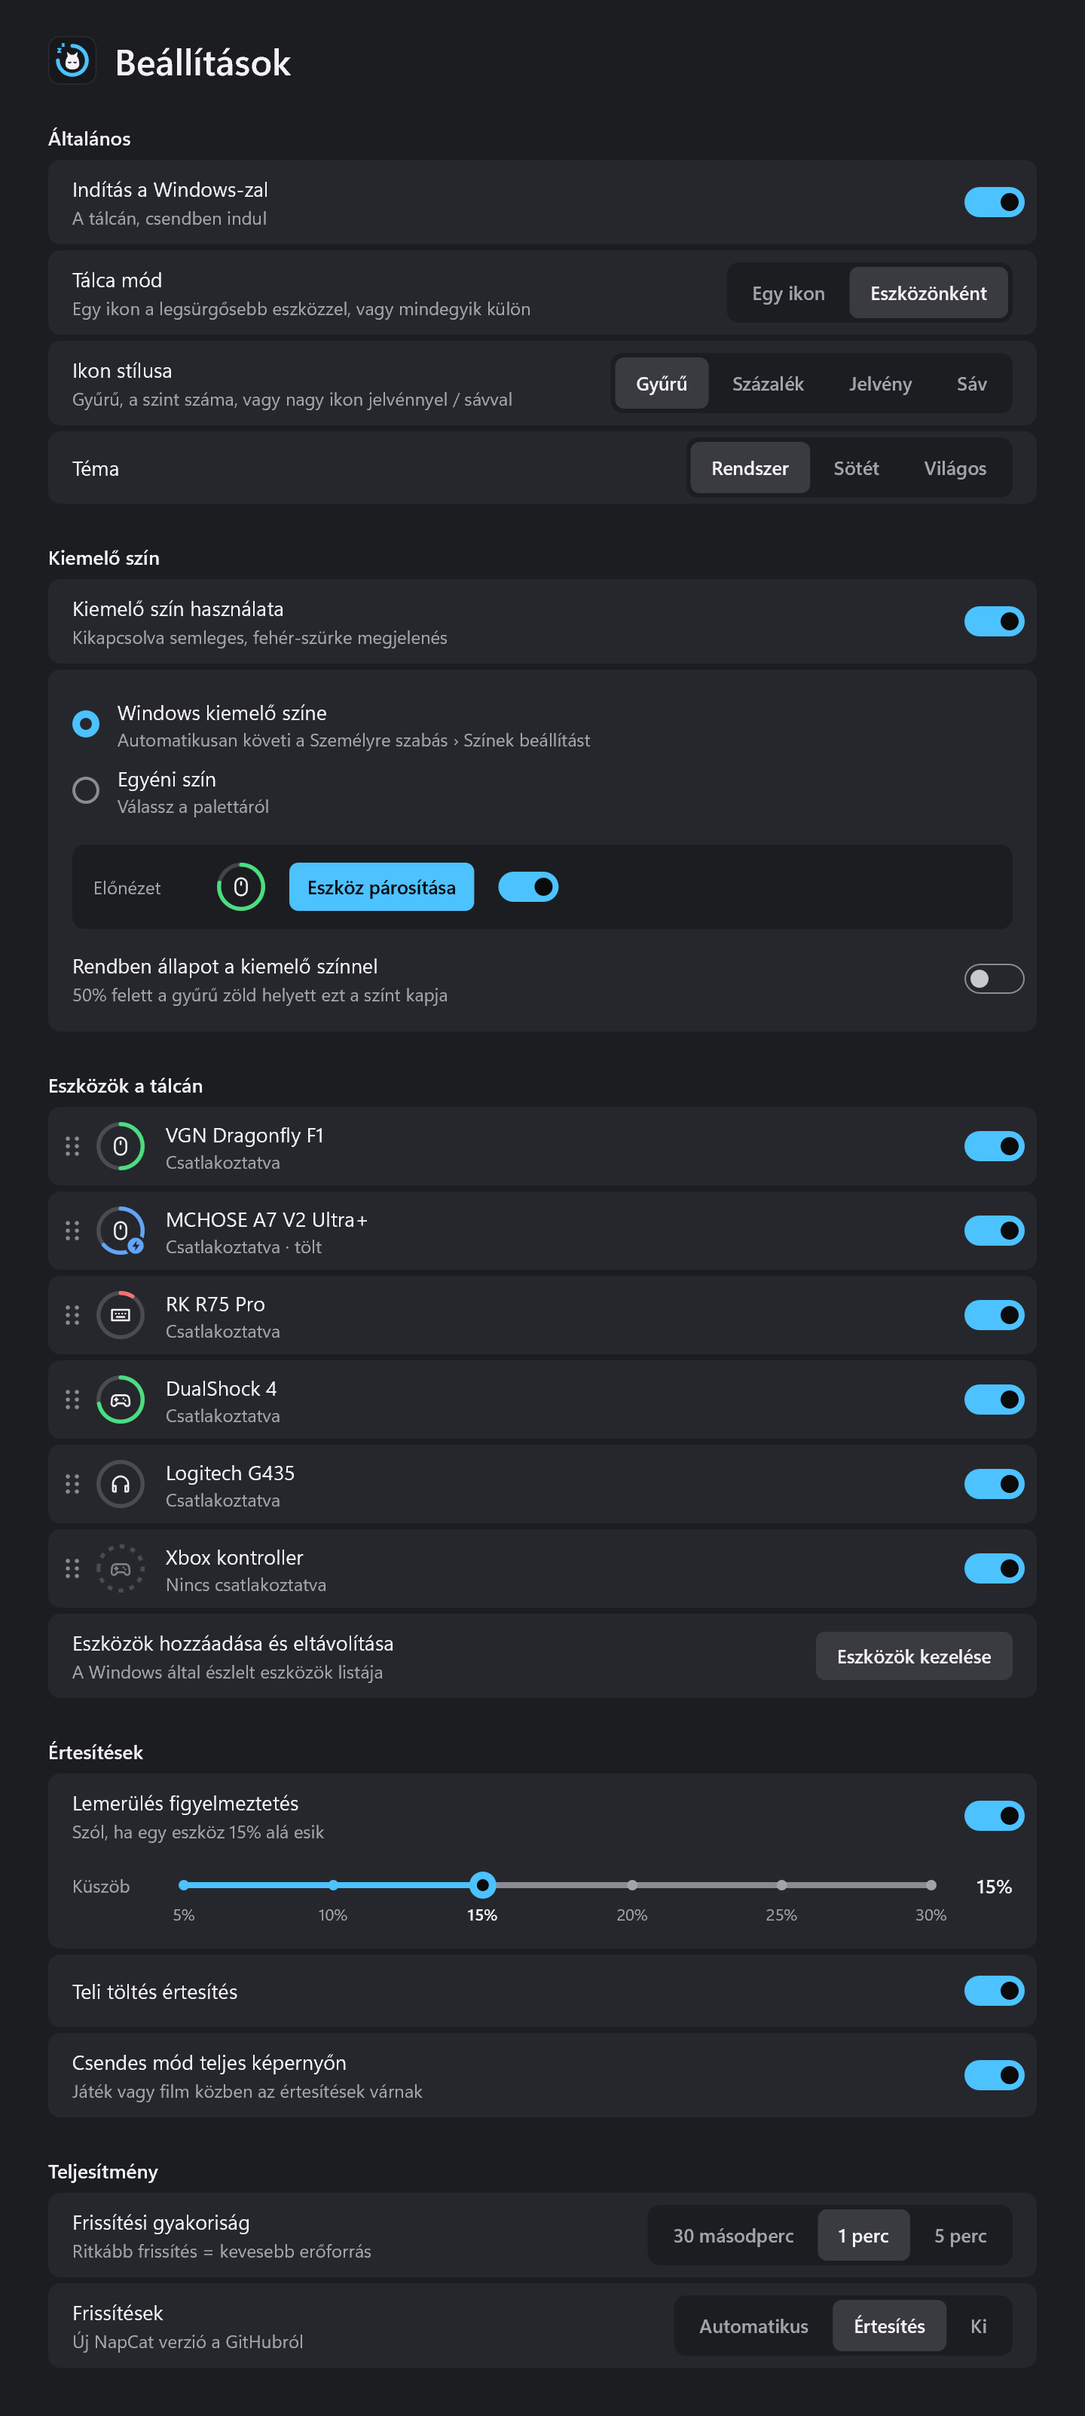
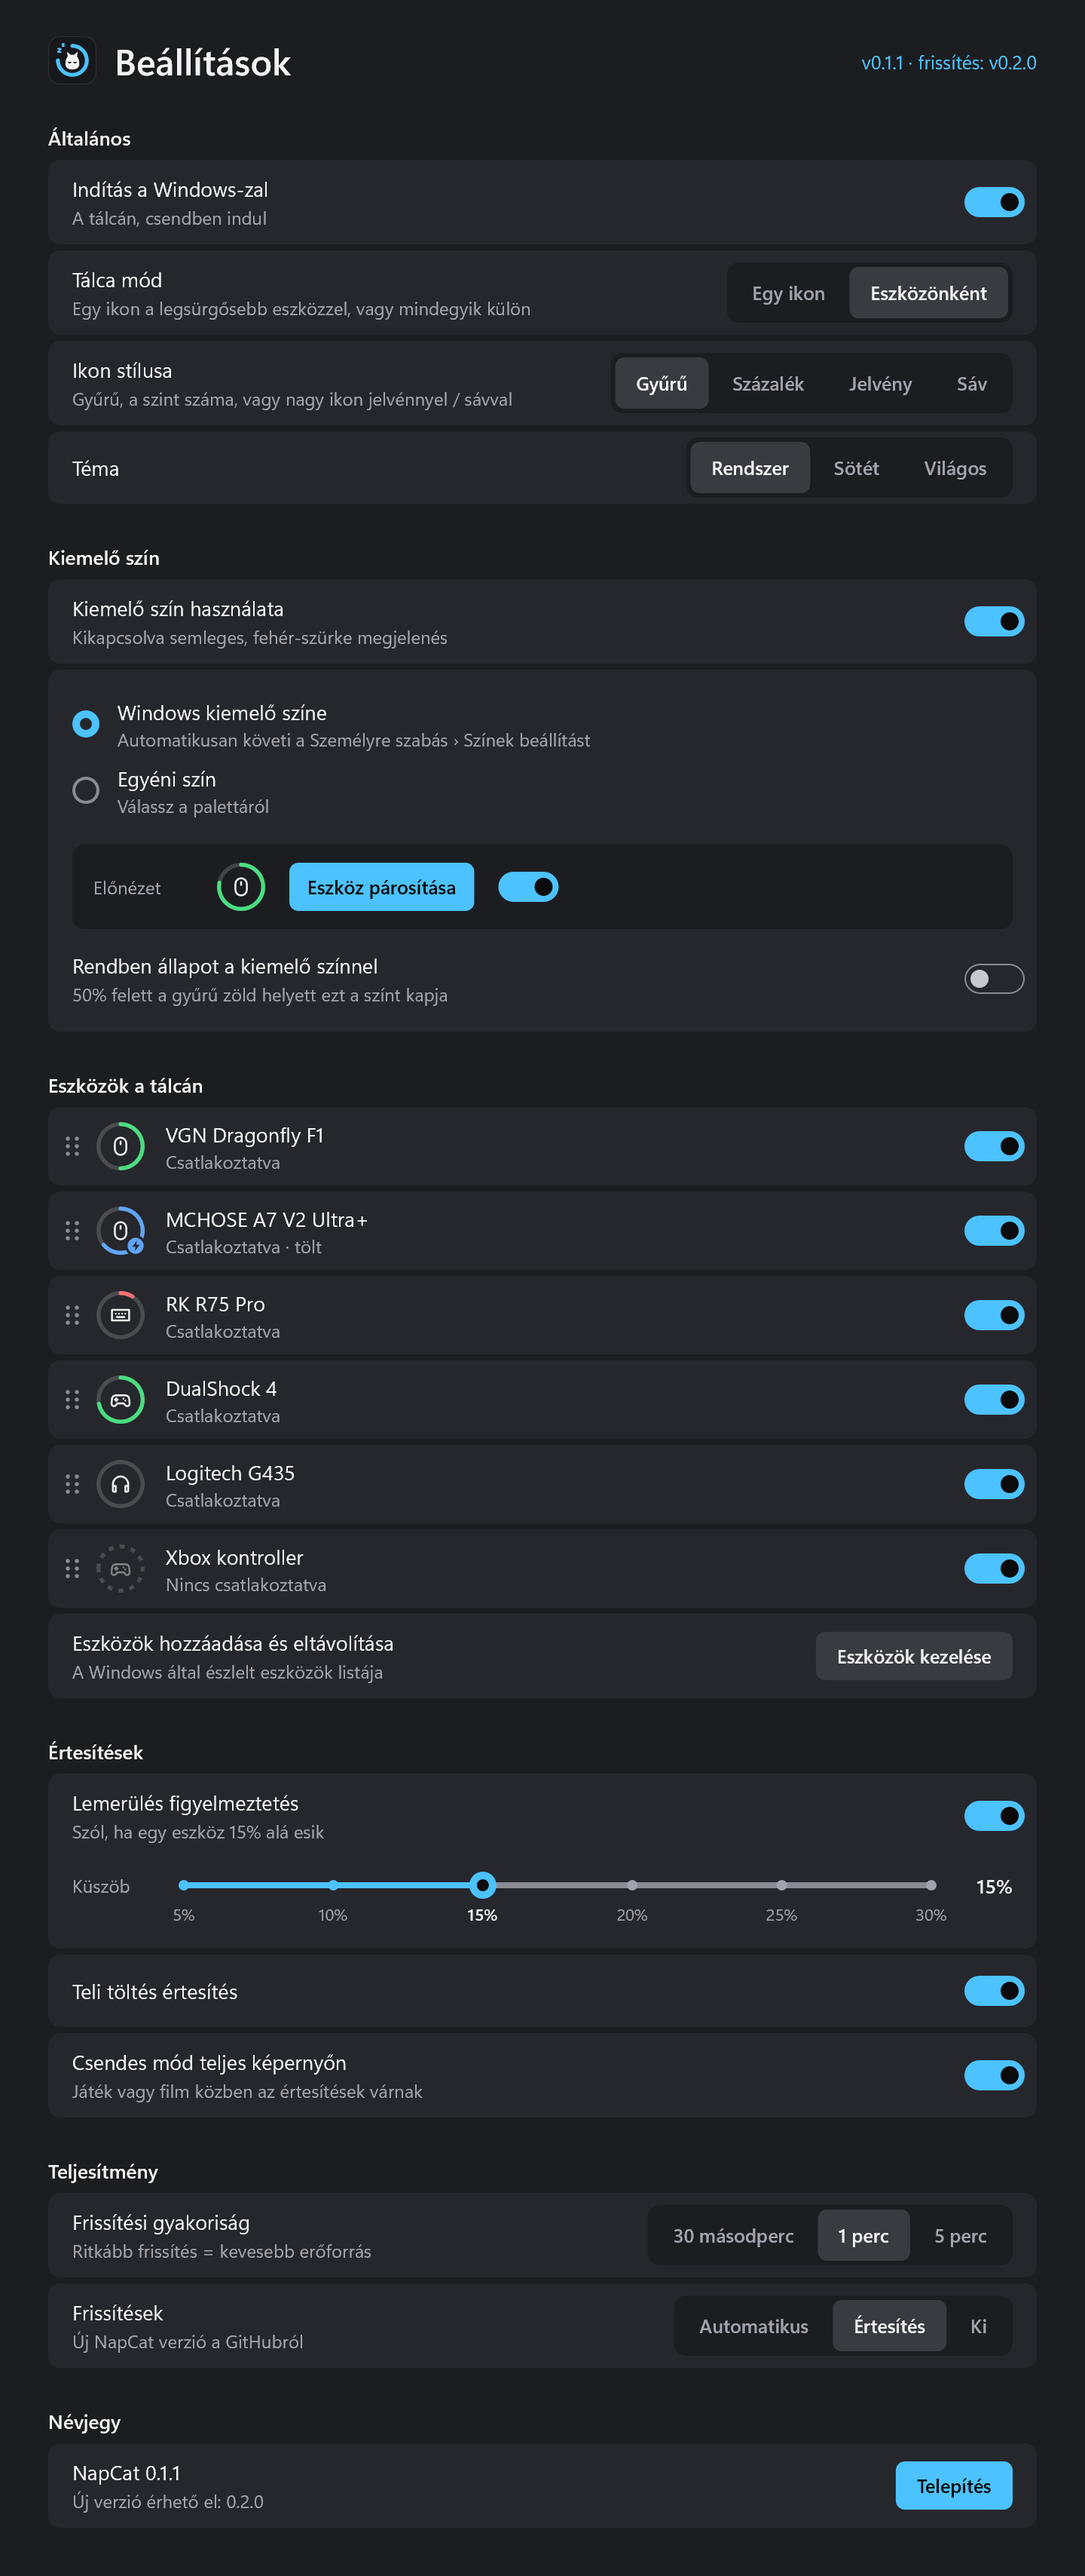
Version and one-click update install in settings, README screenshots up front

diff --git a/src/ui/settings_window.rs b/src/ui/settings_window.rs
@@ -5,6 +5,7 @@
 use std::cell::RefCell;
 use std::ffi::c_void;
 use std::mem::size_of;
+use std::sync::atomic::Ordering;
 
 use windows::core::{w, Interface, Result, PCWSTR};
 use windows::Foundation::Numerics::Matrix3x2;
@@ -25,9 +26,11 @@ use super::anim::{self, fade, mix, Anims};
 use super::draw::{contains, rect, Painter};
 use super::icon_render::{AppIcon, IconRenderer, Layout};
 use super::theme::{self, rgb, Theme};
+use super::tray;
 use crate::model::{ChargeState, DeviceKind, DeviceState};
 use crate::providers::custom::{self, Candidate};
 use crate::settings::{self, CustomDevice, Settings};
+use crate::updater;
 
 /// Üzenet a tálca ablaknak: a beállítások megváltoztak (újraolvasás a fájlból).
 pub const WM_SETTINGS_CHANGED: u32 = WM_APP + 6;
@@ -84,6 +87,10 @@ enum Act {
     Kind(String),
     /// Az eszköz sorának fogantyúja: átrendezés húzással (az egérgomb lenyomásával indul).
     Drag(String),
+    /// Frissítés keresése most.
+    CheckUpdate,
+    /// Az elérhető frissítés letöltése és telepítése.
+    InstallUpdate,
 }
 
 fn kind_label(k: DeviceKind) -> &'static str {
@@ -357,8 +364,26 @@ unsafe fn on_act(w: &mut Window, act: Act) {
             windows::Win32::UI::Shell::ShellExecuteW(None, w!("open"), w!("ms-settings:bluetooth"), None, None, SW_SHOWNORMAL);
             return;
         }
+        // A tálca ablaka végzi (ugyanaz, mint a menü parancsai); az állapotot ő jelzi vissza.
+        Act::CheckUpdate => {
+            let _ = PostMessageW(w.owner, tray::WM_UPDATE_CHECK, WPARAM(0), LPARAM(0));
+            return;
+        }
+        Act::InstallUpdate => {
+            let _ = PostMessageW(w.owner, WM_COMMAND, WPARAM(tray::ID_UPDATE), LPARAM(0));
+            return;
+        }
     }
     changed(w);
+}
+
+/// Újrarajzolás, ha nyitva van (pl. változott a frissítés állapota).
+pub unsafe fn refresh() {
+    WINDOW.with_borrow(|w| {
+        if let Some(w) = w {
+            let _ = InvalidateRect(w.hwnd, None, false);
+        }
+    });
 }
 
 /// A húzott sor helye a listában a sor teteje (`top`) szerint: a legközelebbi hely, 0..n-1.
@@ -660,6 +685,13 @@ impl Ui<'_> {
         let mut y = 24.0;
         self.p.logo(MARGIN, y, 32.0)?;
         self.p.text("Beállítások", 24.0, DWRITE_FONT_WEIGHT_SEMI_BOLD, rect(MARGIN + 44.0, y, 400.0, 32.0), fg, DWRITE_TEXT_ALIGNMENT_LEADING)?;
+        // Verzió a jobb felső sarokban; ha van frissítés, kiemelő színnel jelzi (a gomb a Névjegyben).
+        let update = updater::AVAILABLE.lock().ok().and_then(|a| a.clone());
+        let (version, color) = match &update {
+            Some(r) => (format!("v{} · frissítés: v{}", env!("CARGO_PKG_VERSION"), r.version), self.accent),
+            None => (format!("v{}", env!("CARGO_PKG_VERSION")), sub),
+        };
+        self.p.text(&version, 12.5, DWRITE_FONT_WEIGHT_NORMAL, rect(right - 300.0, y + 8.0, 300.0, 18.0), color, DWRITE_TEXT_ALIGNMENT_TRAILING)?;
         y += 32.0 + SECTION_GAP;
 
         // Általános
@@ -825,6 +857,30 @@ impl Ui<'_> {
         self.segmented(right, cy, &[("30", "30 másodperc"), ("60", "1 perc"), ("300", "5 perc")], poll, |k| Act::Poll(k.parse().unwrap_or(60)))?;
         let cy = self.row(&mut y, "Frissítések", Some("Új NapCat verzió a GitHubról"))?;
         self.segmented(right, cy, &[("auto", "Automatikus"), ("notify", "Értesítés"), ("off", "Ki")], &s.update_mode, Act::Updates)?;
+        y += SECTION_GAP - ROW_GAP;
+
+        // Névjegy: verzió és frissítés
+        self.section(&mut y, "Névjegy")?;
+        let available = updater::AVAILABLE.lock().ok().and_then(|a| a.clone());
+        let installing = tray::INSTALLING.load(Ordering::Relaxed);
+        let checking = updater::CHECKING.load(Ordering::Relaxed);
+        let status = match (&available, installing, checking) {
+            (Some(r), true, _) => format!("A {} letöltése és telepítése folyamatban…", r.version),
+            (Some(r), false, _) => format!("Új verzió érhető el: {}", r.version),
+            (None, _, true) => "Frissítés keresése…".to_string(),
+            (None, _, false) => match updater::LAST_CHECK.load(Ordering::Relaxed) {
+                1 => "Ez a legfrissebb verzió".to_string(),
+                2 => "A frissítés keresése nem sikerült".to_string(),
+                _ => "Frissítések a GitHubról".to_string(),
+            },
+        };
+        let title = format!("NapCat {}", env!("CARGO_PKG_VERSION"));
+        let cy = self.row(&mut y, &title, Some(&status))?;
+        match (&available, installing || checking) {
+            (Some(_), false) => self.button(right, cy, "Telepítés", true, Act::InstallUpdate)?,
+            (None, false) => self.button(right, cy, "Frissítés keresése", false, Act::CheckUpdate)?,
+            (_, true) => {}
+        }
         Ok(y + 32.0 - ROW_GAP)
     }
 }

diff --git a/src/ui/tray.rs b/src/ui/tray.rs
@@ -46,12 +46,16 @@ const ID_EXIT: usize = 100;
 const ID_AUTOSTART: usize = 101;
 const ID_SETTINGS: usize = 102;
 const ID_HIDE: usize = 103;
-const ID_UPDATE: usize = 104;
+pub const ID_UPDATE: usize = 104;
 const ID_SHOW_BASE: usize = 200;
 
 /// A letöltött, ellenőrzött telepítő készen áll (READY).
 const WM_UPDATE_READY: u32 = WM_APP + 4;
-static INSTALLING: AtomicBool = AtomicBool::new(false);
+pub static INSTALLING: AtomicBool = AtomicBool::new(false);
+/// Kézi frissítés-keresés kérése (a beállítások ablakból).
+pub const WM_UPDATE_CHECK: u32 = WM_APP + 8;
+/// A kézi keresés véget ért (a beállítások ablak újrarajzolásához).
+const WM_UPDATE_CHECKED: u32 = WM_APP + 9;
 static READY: Mutex<Option<PathBuf>> = Mutex::new(None);
 
 /// Új verzió érkezett: automatikus módban telepít, különben értesít.
@@ -80,6 +84,7 @@ unsafe fn start_install(hwnd: HWND) {
     if INSTALLING.swap(true, Ordering::Relaxed) {
         return;
     }
+    settings_window::refresh();
     let hwnd_raw = hwnd.0 as isize; // a HWND nem Send
     std::thread::spawn(move || {
         let path = updater::download_in_child(&release);
@@ -101,9 +106,28 @@ unsafe fn on_update_ready(hwnd: HWND) {
         }
         _ => {
             INSTALLING.store(false, Ordering::Relaxed);
+            settings_window::refresh();
             notify_app(hwnd, "A frissítés nem sikerült", "A letöltés vagy az ellenőrzés hibát adott; később újra próbálható.", true);
         }
     }
+}
+
+/// Kézi frissítés-keresés egy rövid életű szálon; talált kiadásnál WM_UPDATE, különben csak
+/// a beállítások ablak frissül.
+unsafe fn start_check(hwnd: HWND) {
+    if updater::CHECKING.swap(true, Ordering::Relaxed) {
+        return;
+    }
+    settings_window::refresh();
+    let hwnd_raw = hwnd.0 as isize;
+    std::thread::spawn(move || {
+        let found = updater::check_in_child(env!("CARGO_PKG_VERSION")).is_some();
+        updater::CHECKING.store(false, Ordering::Relaxed);
+        let msg = if found { WM_UPDATE } else { WM_UPDATE_CHECKED };
+        unsafe {
+            let _ = PostMessageW(HWND(hwnd_raw as *mut _), msg, WPARAM(0), LPARAM(0));
+        }
+    });
 }
 
 /// Alacsony akku értesítés második (kritikus) küszöbe; az első a beállításokból jön.
@@ -878,7 +902,16 @@ extern "system" fn wndproc(hwnd: HWND, msg: u32, wparam: WPARAM, lparam: LPARAM)
                 LRESULT(0)
             }
             WM_UPDATE => {
+                settings_window::refresh();
                 on_update(hwnd);
+                LRESULT(0)
+            }
+            WM_UPDATE_CHECK => {
+                start_check(hwnd);
+                LRESULT(0)
+            }
+            WM_UPDATE_CHECKED => {
+                settings_window::refresh();
                 LRESULT(0)
             }
             flyout::WM_FLYOUT => {

diff --git a/src/updater.rs b/src/updater.rs
@@ -12,6 +12,7 @@
 
 use std::ffi::c_void;
 use std::path::PathBuf;
+use std::sync::atomic::{AtomicBool, AtomicU8, Ordering};
 use std::sync::{Arc, Mutex};
 use std::time::Duration;
 
@@ -198,9 +199,16 @@ fn run_child(args: &[&str]) -> Option<String> {
     output.status.success().then(|| String::from_utf8_lossy(&output.stdout).into_owned())
 }
 
+/// Az utolsó ellenőrzés eredménye a beállítások ablaknak: 0 még nem volt, 1 sikerült, 2 hiba.
+pub static LAST_CHECK: AtomicU8 = AtomicU8::new(0);
+/// Kézi ellenőrzés fut (a beállítások gombja).
+pub static CHECKING: AtomicBool = AtomicBool::new(false);
+
 /// Ellenőrzés segédfolyamatban; az elérhető kiadást ebben a folyamatban tárolja.
 pub fn check_in_child(current: &str) -> Option<Release> {
-    let out = run_child(&["--update-check"])?;
+    let out = run_child(&["--update-check"]);
+    LAST_CHECK.store(if out.is_some() { 1 } else { 2 }, Ordering::Relaxed);
+    let out = out?;
     let release = out.lines().find_map(|line| match line.split('\t').collect::<Vec<_>>().as_slice() {
         ["release", v, tag] => Some(Release { version: v.to_string(), tag: tag.to_string() }),
         _ => None,

diff --git a/src/ui/gallery.rs b/src/ui/gallery.rs
@@ -135,6 +135,8 @@ fn gallery() {
         Candidate { vid: 0x3142, pid: 0x0A80, product: "fifine Microphone".into(), kind: DeviceKind::Headset },
         Candidate { vid: 0x258A, pid: 0x0049, product: "Gaming Keyboard".into(), kind: DeviceKind::Keyboard },
     ];
+    // A Névjegy szakasz elérhető frissítéssel (Telepítés gomb).
+    *crate::updater::AVAILABLE.lock().unwrap() = Some(crate::updater::Release { version: "0.2.0".into(), tag: "v0.2.0".into() });
     for light in [false, true] {
         let t = use_theme(light);
         let name = if light { "light" } else { "dark" };

diff --git a/README.md b/README.md
@@ -1,4 +1,4 @@
-# NapCat
+# NapCat
 
 Battery levels of your wireless devices, right in the Windows taskbar.
 
@@ -6,7 +6,52 @@ Each device gets its own tray icon: the device glyph surrounded by a ring that s
 level, with a lightning badge while charging. Written in Rust on plain Win32, Direct2D and WinRT:
 no WebView, no UI framework, and practically zero CPU when idle.
 
+<p align="center">
+  <a href="docs/gallery/tray/icon-styles.png">
+    <img src="docs/gallery/tray/icon-styles.png" alt="NapCat tray icon styles: ring, percent, badge and bar on dark and light taskbars" width="100%">
+  </a>
+</p>
+
 > Early development. Windows 10 and 11.
+
+[Screenshots](#screenshots) · [Status](#status) · [Building](#building) · [Full gallery](docs/gallery/README.md)
+
+## Screenshots
+
+<table>
+  <tr>
+    <td width="50%" valign="top">
+      <a href="docs/gallery/flyout/list-dark.png"><img src="docs/gallery/flyout/list-dark.png" alt="NapCat flyout panel with device levels, charging state, time estimates and a low-battery alert" width="100%"></a><br>
+      <strong>Flyout panel</strong><br>
+      Click the tray icon: every device with its level, charging state, time estimate and low-battery alert.
+    </td>
+    <td width="50%" valign="top">
+      <a href="docs/gallery/flyout/grid-light.png"><img src="docs/gallery/flyout/grid-light.png" alt="NapCat flyout panel in grid view, light theme" width="100%"></a><br>
+      <strong>Grid view</strong><br>
+      The same panel as tiles, here with the light theme.
+    </td>
+  </tr>
+  <tr>
+    <td width="50%" valign="top">
+      <a href="docs/gallery/settings/devices-dark.png"><img src="docs/gallery/settings/devices-dark.png" alt="NapCat devices page for removing, retyping and adding devices" width="100%"></a><br>
+      <strong>Devices</strong><br>
+      Remove, retype or add devices, including ones Windows detects but NapCat has no protocol for.
+    </td>
+    <td width="50%" valign="top">
+      <a href="docs/gallery/notifications/low-battery.png"><img src="docs/gallery/notifications/low-battery.png" alt="NapCat low-battery notification with snooze" width="364"></a><br>
+      <strong>Low battery</strong><br>
+      A notification with snooze, held back while a game or film is in full screen.
+      <br><br>
+      <a href="docs/gallery/tooltip/dark.png"><img src="docs/gallery/tooltip/dark.png" alt="NapCat rich tooltip" width="300"></a><br>
+      <strong>Tooltip</strong><br>
+      Hover a tray icon for the details.
+    </td>
+  </tr>
+</table>
+
+The [settings page](docs/gallery/settings/general-dark.png) shows the version and installs updates
+with one click. Screenshots show the Hungarian UI with simulated devices; the
+[full gallery](docs/gallery/README.md) has all 14 images and capture details.
 
 ## Status
 
@@ -24,39 +69,6 @@ no WebView, no UI framework, and practically zero CPU when idle.
 | Logitech HID++ 2.0 (Unifying, Bolt, Lightspeed, wired) | done, untested on hardware |
 | Bluetooth battery (Windows battery property) | done, untested on hardware |
 | Headsets (other than Logitech), Razer, BLE GATT | planned |
-
-## Screenshots
-
-<p align="center">
-  <a href="docs/gallery/flyout/list-dark.png">
-    <img src="docs/gallery/flyout/list-dark.png" alt="NapCat flyout panel with device levels, charging state, time estimates and a low-battery alert" width="49%">
-  </a>
-  <a href="docs/gallery/flyout/grid-light.png">
-    <img src="docs/gallery/flyout/grid-light.png" alt="NapCat flyout panel in grid view, light theme" width="49%">
-  </a>
-</p>
-
-<p align="center">
-  <a href="docs/gallery/tray/icon-styles.png">
-    <img src="docs/gallery/tray/icon-styles.png" alt="NapCat tray icon styles: ring, percent, badge and bar on dark and light taskbars" width="100%">
-  </a>
-</p>
-
-<p align="center">
-  <a href="docs/gallery/settings/devices-dark.png">
-    <img src="docs/gallery/settings/devices-dark.png" alt="NapCat devices page for removing, retyping and adding devices" width="49%">
-  </a>
-  <a href="docs/gallery/notifications/low-battery.png">
-    <img src="docs/gallery/notifications/low-battery.png" alt="NapCat low-battery notification with snooze" width="49%">
-  </a>
-</p>
-
-<p align="center">
-  <a href="docs/gallery/README.md"><strong>Browse the full feature gallery →</strong></a>
-</p>
-
-Screenshots show the Hungarian UI with simulated devices. See the gallery for all 14 images and
-capture details.
 
 ## Building
 
